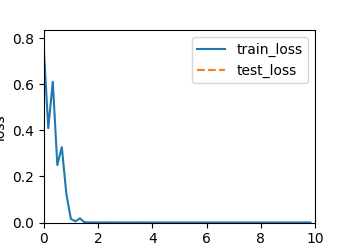
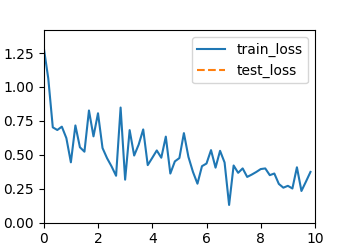
handout v1

diff --git a/EEG_fNIRS/model.py b/EEG_fNIRS/model.py
@@ -58,19 +58,20 @@ class Module(nn.Module, HyperParameters):
 
     def training_step(self, batch, draw_online=True, img_path=None):
         l = self.loss(self(*batch[:-1]), batch[-1]) # self(*batch[:-1]) call Module(), and calculate the prediction
-        self.plot('loss', l, train=True, draw_online=draw_online, img_path=img_path)
+        # self.plot('loss', l, train=True, draw_online=draw_online, img_path=img_path)
         return l
     
     def validation_step(self, batch, draw_online=True, img_path=None):
         l = self.loss(self(*batch[:-1]), batch[-1])
-        self.plot('loss', l, train=False, draw_online=draw_online, img_path=img_path)
+        # self.plot('loss', l, train=False, draw_online=draw_online, img_path=img_path)
+        return l
 
     def configure_optimizers(self):
         raise NotImplementedError
     
 
 class MLPClassifier(Module):
-    def __init__(self, input_dim, hidden_dim, output_dim, lr=0.01):
+    def __init__(self, input_dim, hidden_dim, output_dim, lr=0.001):
         super().__init__()
         self.lr = lr
         self.net = nn.Sequential(
@@ -79,6 +80,8 @@ class MLPClassifier(Module):
             nn.Linear(hidden_dim, output_dim)
         )
         self.save_hyperparameters()
+        print(f"Model architecture:\n{self.net}")
+        print(f"Output layer dimension: {self.net[-1].out_features}")
 
     def loss(self, y_hat, y):
         fn = nn.CrossEntropyLoss()
@@ -88,23 +91,4 @@ class MLPClassifier(Module):
         return torch.optim.Adam(self.parameters(), lr=self.lr)
     
 
-class SimpleClassifier(Module):
-    def __init__(self, input_size, num_classes):
-        super(SimpleClassifier, self).__init__()
-        self.fc1 = nn.Linear(input_size, 128)
-        self.relu = nn.ReLU()
-        self.fc2 = nn.Linear(128, num_classes)
-
-    def forward(self, x):
-        x = self.fc1(x)
-        x = self.relu(x)
-        x = self.fc2(x)
-        return x
-    
-    def loss(self, y_hat, y):
-        fn = nn.CrossEntropyLoss()
-        return fn(y_hat, y)
-    
-    def configure_optimizers(self):
-        return torch.optim.Adam(self.parameters(), lr=0.01)
     

diff --git a/EEG_fNIRS/train.py b/EEG_fNIRS/train.py
@@ -41,8 +41,11 @@ class Trainer(HyperParameters):
     def fit_epoch(self):
         self.model.train()
 
+        total_loss = 0
+
         for batch in self.train_dataloader:
             loss = self.model.training_step(self.prepare_batch(batch), self.draw_online, self.img_path)
+            total_loss += loss.item()
             self.optim.zero_grad()
             with torch.no_grad():
                 loss.backward()
@@ -51,15 +54,21 @@ class Trainer(HyperParameters):
                 self.optim.step()
             self.train_batch_idx += 1
         
+        print(f"Epoch {self.epoch + 1} - Training Loss: {total_loss / len(self.train_dataloader)}")
+
         if self.val_dataloader is None:
             return
         
         self.model.eval()
+        total_val_loss = 0
 
         for batch in self.val_dataloader:
             with torch.no_grad():
-                self.model.validation_step(self.prepare_batch(batch), self.draw_online, self.img_path)
+                loss = self.model.validation_step(self.prepare_batch(batch), self.draw_online, self.img_path)
+                total_val_loss += loss
             self.val_batch_idx += 1
+
+        print(f"Epoch {self.epoch + 1} - Validation Loss: {total_val_loss / len(self.val_dataloader)}")
 
     def validate(self):
         self.model.eval()

diff --git a/EEG_fNIRS/main.py b/EEG_fNIRS/main.py
@@ -1,7 +1,7 @@
 import torch
 
 from dataloader import EEGData
-from model import MLPClassifier, SimpleClassifier
+from model import MLPClassifier
 from train import Trainer
 
 
@@ -14,8 +14,8 @@ def main():
 
     print(f">>> Num of features: {num_features}  Num of classes: {num_classes}")
 
-    # model = MLPClassifier(input_dim=num_features, hidden_dim=32, output_dim=num_classes, lr=0.01)
-    model = SimpleClassifier(input_size=num_features, num_classes=num_classes)
+    model = MLPClassifier(input_dim=num_features, hidden_dim=32, output_dim=num_classes, lr=0.001)
+    # model = SimpleClassifier(input_size=num_features, num_classes=num_classes)
     trainer = Trainer(max_epochs=10, draw_online=False, img_path='./img')
     trainer.fit(model, debug_data)
     acc = trainer.validate()

diff --git a/EEG_fNIRS/code_exp.md b/EEG_fNIRS/code_exp.md
@@ -1,0 +1,30 @@
+# EEG & fNIRS Based Alzheimer's Disease Detection
+
+**Team members:** Gangfeng Hu, Niko Hams, Sangdae Nam, Uli Prantz, Eric Ji, Matthew Zhou
+
+
+
+
+
+
+
+## Introduction
+
+### Signals: EEG
+
+
+
+### Signals: fNIRS
+
+
+
+
+
+
+
+### Tasks
+
+
+
+
+

diff --git a/EEG_fNIRS/methods.md b/EEG_fNIRS/methods.md
@@ -90,3 +90,6 @@ Unlike EEG, which directly measures the brain's electrical activity, fNIRS <u>in
 
 - Frequency domain analysis using PSD:
   - 
+
+
+
